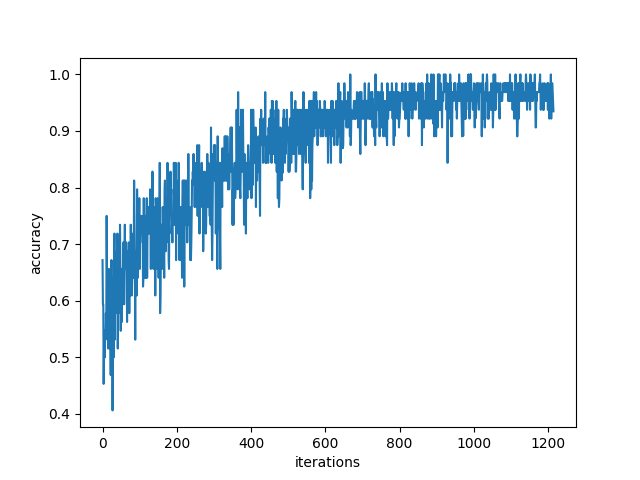
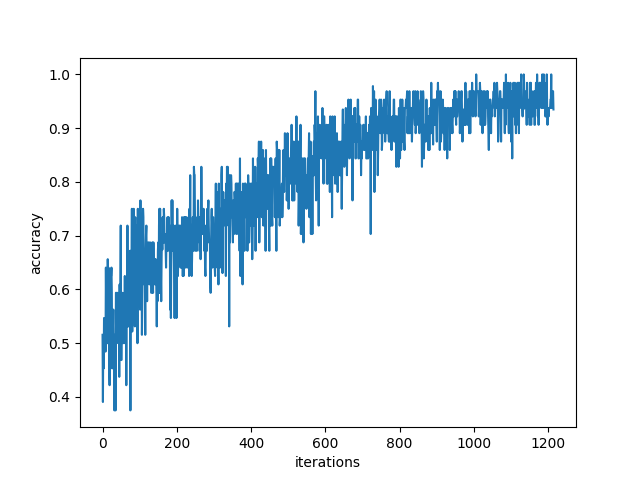
Print validation percent

diff --git a/Nick_tests/replicate/gender_model.py b/Nick_tests/replicate/gender_model.py
@@ -105,8 +105,8 @@ def train(loader_train,val_loader, model, loss_fn, optimizer, dtype,num_epochs=1
 
             if (t + 1) % print_every == 0:
                 print('t = %d, loss = %.4f, acc = %.4f' % (t + 1, loss.data[0], acc))
-		#val_acc = validate_epoch(model, val_loader, dtype)
-		#val_acc_history.append(val_acc)
+		val_acc = validate_epoch(model, val_loader, dtype)
+		val_acc_history.append(val_acc)
 
             optimizer.zero_grad()
             loss.backward()
@@ -233,7 +233,7 @@ print("defined model")
 model.type(dtype)
 model.train()
 loss_fn = nn.CrossEntropyLoss().type(dtype)
-optimizer = optim.Adam(model.parameters(), lr=1e-4,weight_decay=0)
+optimizer = optim.Adam(model.parameters(), lr=8e-5,weight_decay=0)
 print("start training")
 loss_history,acc_history,val_acc_history=train(train_loader,val_loader, model, loss_fn, optimizer, dtype,num_epochs=15, print_every=17)
 
